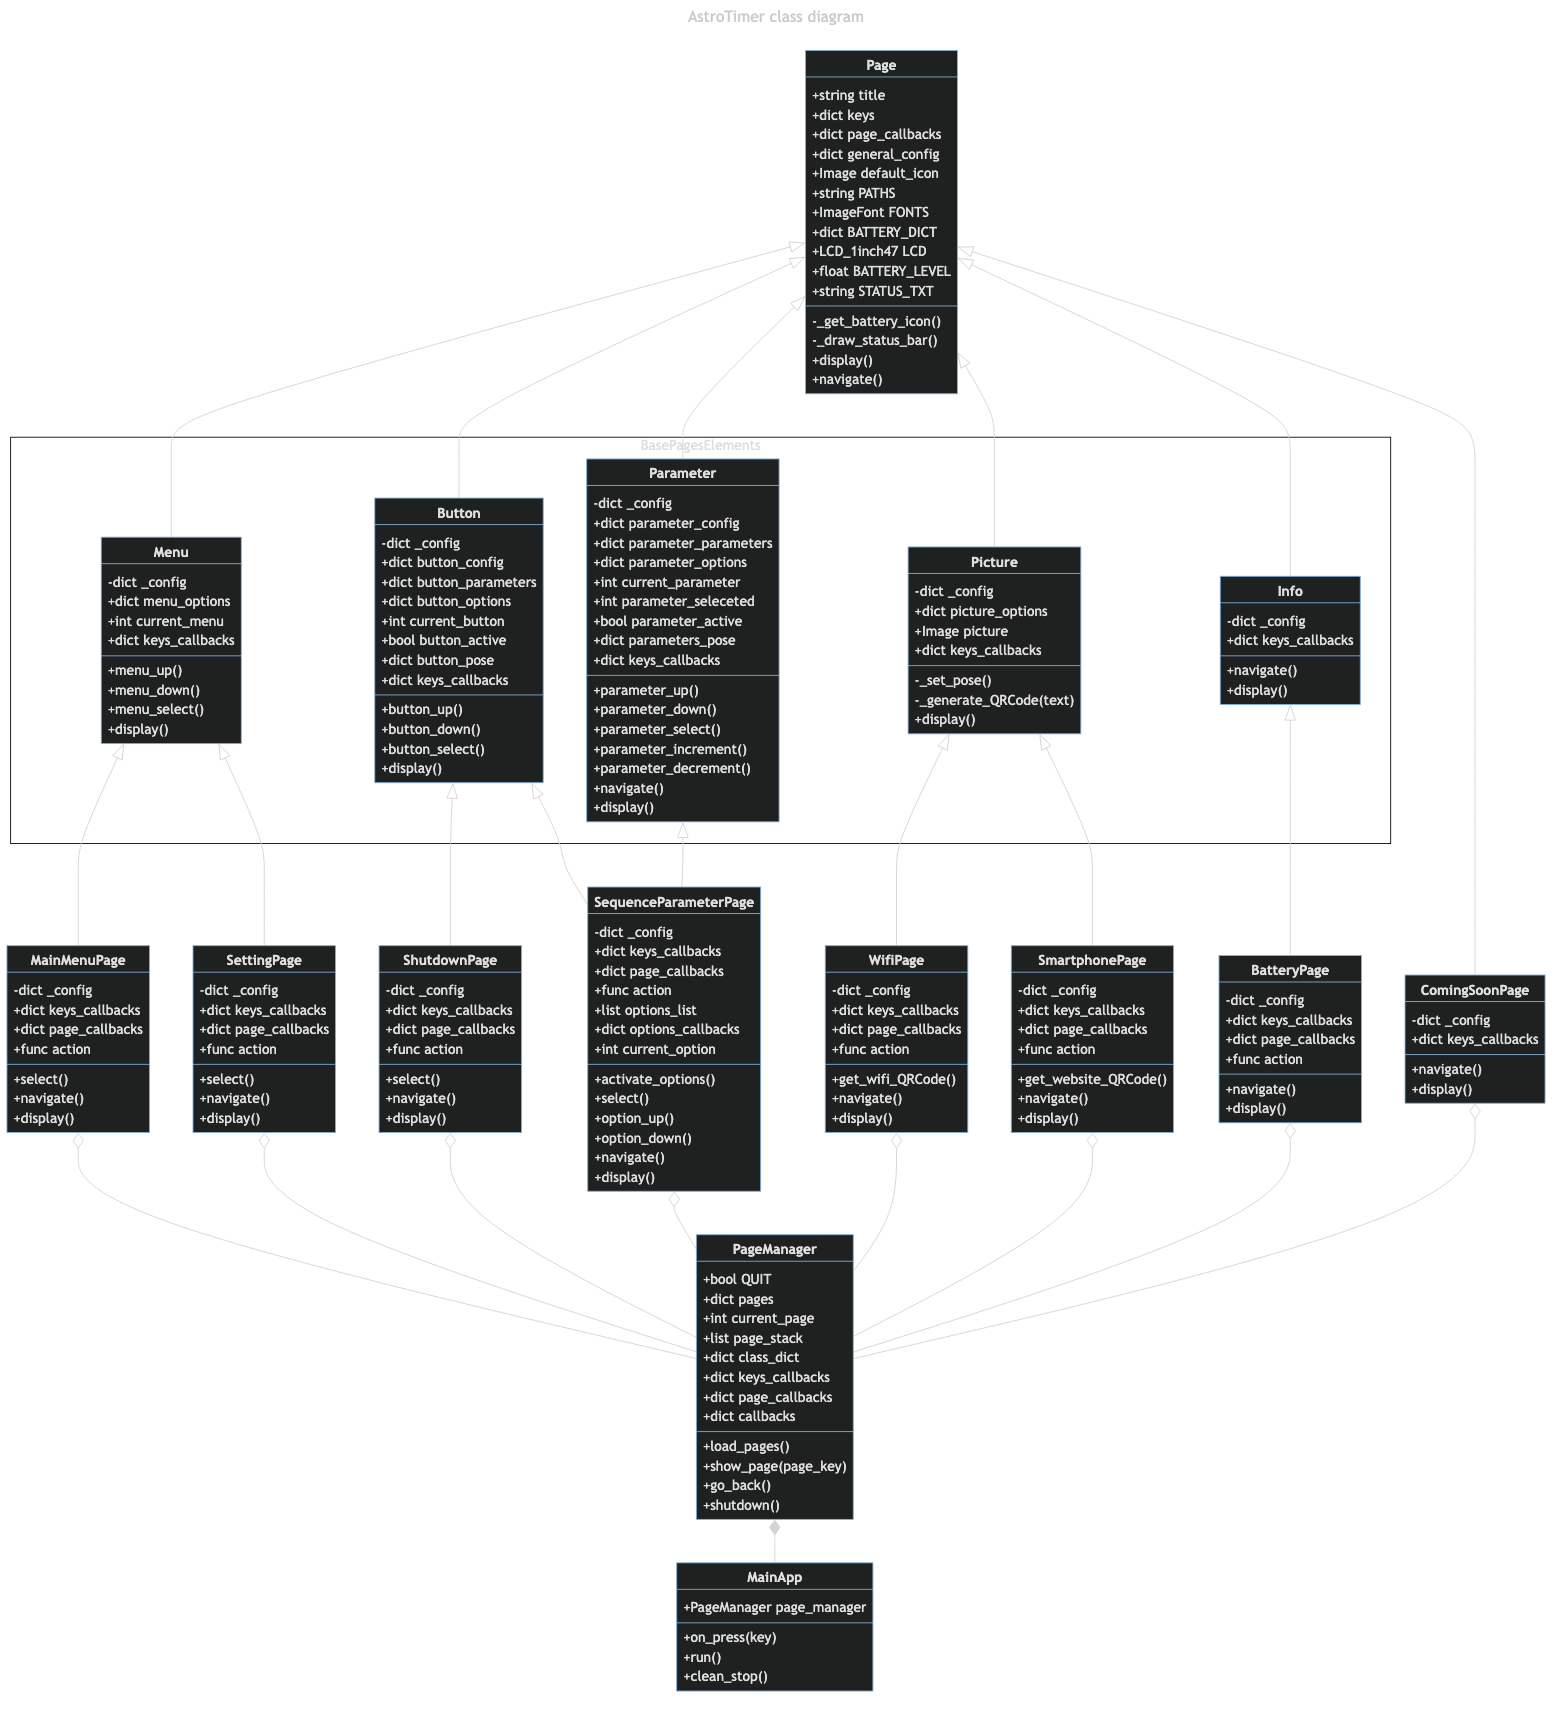
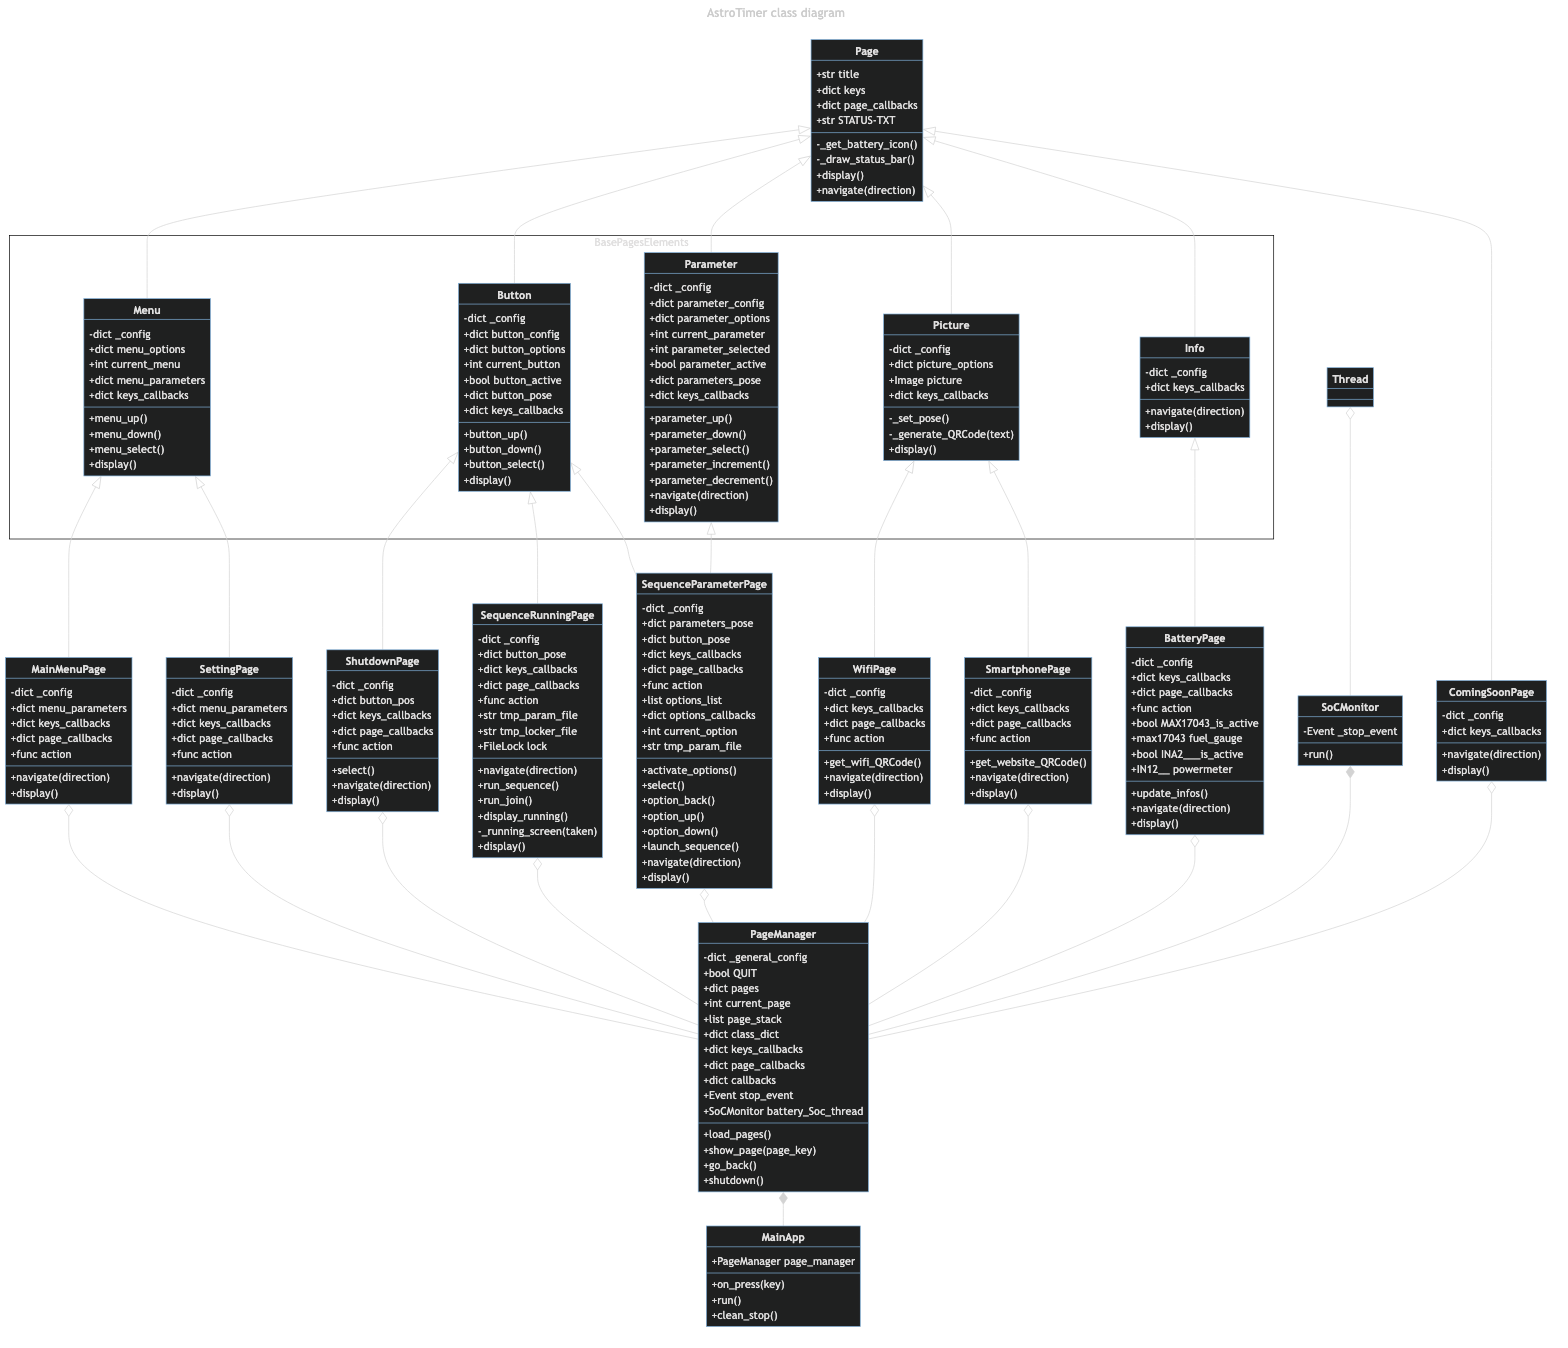
Documentation update

Changed region(s): [[0.0, 0.0, 1.0, 0.997], [0.0312, 0.2181, 0.1562, 0.4362], [0.7188, 0.2493, 0.875, 0.4362]]

diff --git a/src/MicroLogiciel/lib/UI_generator.py b/src/MicroLogiciel/lib/UI_generator.py
@@ -1187,19 +1187,19 @@ class WifiPage(Picture):
                                                                   WIFI_CONFIG['ignore_broadcast_ssid']))
         return None
     
+    def navigate(self, direction:str)->None:
+        self.class_logger.info(f"execute '{self.action.__name__}'",
+                               extra={'className':f"{self.__class__.__name__}:"})
+        super().navigate(direction)
+        self.action()
+        return None
+    
     def display(self)->None:
         self.class_logger.info("display WifiPage",
                                extra={'className':f"{self.__class__.__name__}:"})
         self.get_wifi_QRCode()
         super().display()
         self.LCD.ShowImage(show=BYPASS_BUILTIN_SCREEN)
-        return None
-    
-    def navigate(self, direction:str)->None:
-        self.class_logger.info(f"execute '{self.action.__name__}'",
-                               extra={'className':f"{self.__class__.__name__}:"})
-        super().navigate(direction)
-        self.action()
         return None
 
 
@@ -1243,19 +1243,19 @@ class SmartphonePage(Picture):
         self._generate_QRCode(f"HTTP:{WEBSITE_CONFIG['ip']}:{WEBSITE_CONFIG['port']}")
         return None
     
+    def navigate(self, direction:str)->None:
+        self.class_logger.info(f"execute '{self.action.__name__}'",
+                               extra={'className':f"{self.__class__.__name__}:"})
+        super().navigate(direction)
+        self.action()
+        return None
+    
     def display(self)->None:
         self.class_logger.info("display SmartphonePage",
                                extra={'className':f"{self.__class__.__name__}:"})
         self.get_website_QRCode()
         super().display()
         self.LCD.ShowImage(show=BYPASS_BUILTIN_SCREEN)
-        return None
-    
-    def navigate(self, direction:str)->None:
-        self.class_logger.info(f"execute '{self.action.__name__}'",
-                               extra={'className':f"{self.__class__.__name__}:"})
-        super().navigate(direction)
-        self.action()
         return None
 
 
@@ -1350,22 +1350,14 @@ class BatteryPage(Info):
             self.class_logger.error(f"OSError: {e}, I2C device MAX17043 (addr {hex(self.fuel_gauge._address)}) not responding",
                                     extra={'className':f"{self.__class__.__name__}:"})
             self.MAX17043_is_active = False
-        self.INA219_is_active = True
+        self.INA2___is_active = True
         try:
             self.powermeter = INA2__(busnum=1, address=0x42, max_expected_amps=2.7, shunt_ohms=30e-3)
             self.powermeter.configure()
         except BaseException as e:
             self.class_logger.error(f"Error: {e}, I2C device INA219 (addr {hex(self.powermeter._address)}) not responding",
                                     extra={'className':f"{self.__class__.__name__}:"})
-            self.INA219_is_active = False
-        return None
-    
-    def display(self)->None:
-        self.class_logger.info("display BatteryPage",
-                               extra={'className':f"{self.__class__.__name__}:"})
-        self.interrupt_event = threading.Event()
-        self.update_thread = threading.Thread(target=self.update_infos)
-        self.update_thread.start()
+            self.INA2___is_active = False
         return None
     
     def update_infos(self)->None:
@@ -1379,7 +1371,7 @@ class BatteryPage(Info):
         super().display()
         draw = ImageDraw.Draw(self.LCD.screen_img)
         
-        if not (self.MAX17043_is_active or self.INA219_is_active):
+        if not (self.MAX17043_is_active or self.INA2___is_active):
             self.LCD.screen_img.paste(self.default_icon, (160-int(self.default_icon.width/2), 45))
             
             option_font = self.FONTS["PixelOperator_M"]
@@ -1405,7 +1397,7 @@ class BatteryPage(Info):
                 else:
                     option_text += "Cell voltage: -- V\n"
                     option_text += "State of charge: -- %\n"
-                if self.INA219_is_active:
+                if self.INA2___is_active:
                     option_text += f"RPi current: {self.powermeter.current():.1f} mA\n"
                     option_text += f"RPi power: {self.powermeter.power():.1f} mW\n"
                 else:
@@ -1431,6 +1423,14 @@ class BatteryPage(Info):
             self.update_thread.join()
         self.action()
         return None
+    
+    def display(self)->None:
+        self.class_logger.info("display BatteryPage",
+                               extra={'className':f"{self.__class__.__name__}:"})
+        self.interrupt_event = threading.Event()
+        self.update_thread = threading.Thread(target=self.update_infos)
+        self.update_thread.start()
+        return None
 
 
 class PageManager:
@@ -1451,8 +1451,8 @@ class PageManager:
         
         # Set class correspondance dict
         self.class_dict = {
-            "MainMenuPage"          : MainMenuPage,
             "ComingSoonPage"        : ComingSoonPage,
+            "MainMenuPage"          : MainMenuPage,
             "ShutdownPage"          : ShutdownPage,
             "SequenceParameterPage" : SequenceParameterPage,
             "SequenceRunningPage"   : SequenceRunningPage,
